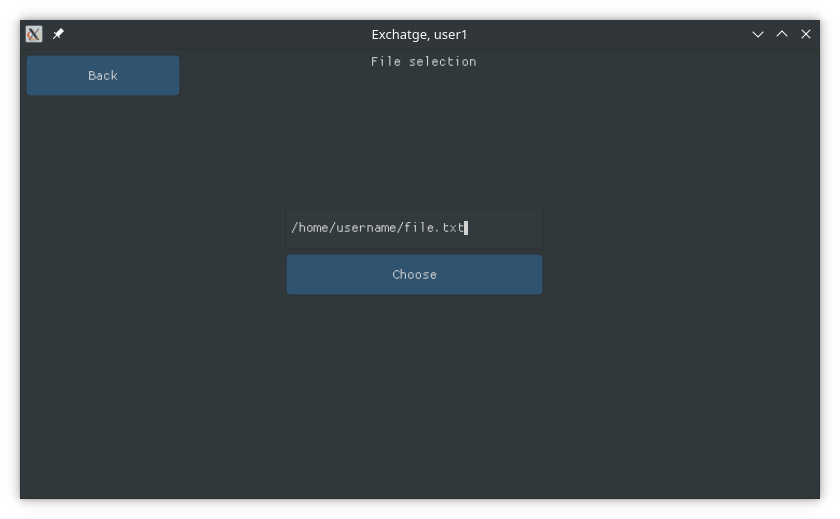
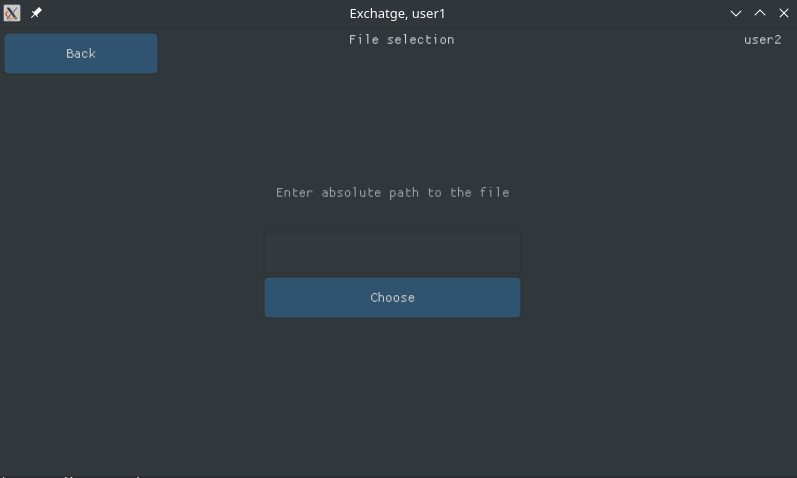
Improved UI a bit

Changed region(s): [[0.0, 0.0, 1.0, 1.0], [0.3312, 0.3808, 0.6625, 0.6736]]

diff --git a/src/render/render.c b/src/render/render.c
@@ -87,6 +87,7 @@ STATIC_CONST_STRING FILE_IS_EMPTY = "File is empty";
 STATIC_CONST_STRING UNABLE_TO_TRANSMIT_FILE = "Unable to transmit file";
 STATIC_CONST_STRING FILE_IS_TOO_BIG = "File is too big (> 20 mb)";
 STATIC_CONST_STRING FILE_TRANSMITTED = "File transmitted";
+STATIC_CONST_STRING ENTER_ABSOLUTE_PATH_TO_FILE = "Enter absolute path to the file";
 
 const unsigned RENDER_MAX_MESSAGE_SYSTEM_TEXT_SIZE = 64;
 
@@ -953,6 +954,9 @@ static void drawFileChooser(void) {
     const float height = currentHeight(), rowHeight = (float) decreaseHeightIfNeeded((unsigned) height) * 0.1f;
     const bool aboveInitialWidth = this->width >= WINDOW_WIDTH * 2;
 
+    char title[this->conversationNameSize + 1];
+    SDL_memcpy(title, this->conversationName, this->conversationNameSize);
+
     { nk_layout_row_begin(this->context, NK_DYNAMIC, rowHeight, 3);
         nk_layout_row_push(this->context, 0.2f);
         if (nk_button_label(this->context, BACK)) (*(this->fileChooseResultHandler))(NULL, 0);
@@ -961,13 +965,23 @@ static void drawFileChooser(void) {
         nk_label(this->context, FILE_SELECTION, NK_TEXT_ALIGN_RIGHT);
 
         nk_layout_row_push(this->context, aboveInitialWidth ? 0.47f : 0.42f);
-        nk_spacer(this->context);
+        nk_label(this->context, this->conversationName, NK_TEXT_ALIGN_RIGHT);
     nk_layout_row_end(this->context); }
 
     nk_layout_row_dynamic(this->context, height * (aboveInitialWidth ? 0.33f : 0.25f), 1);
     nk_spacer(this->context);
 
     nk_layout_row_dynamic(this->context, rowHeight, 3);
+
+    nk_spacer(this->context);
+    nk_label_colored(
+        this->context,
+        ENTER_ABSOLUTE_PATH_TO_FILE,
+        NK_TEXT_ALIGN_CENTERED,
+        (struct nk_color) {0xff, 0xff, 0xff, 0x88}
+    );
+    nk_spacer(this->context);
+
     nk_spacer(this->context);
     nk_edit_string(
         this->context,
